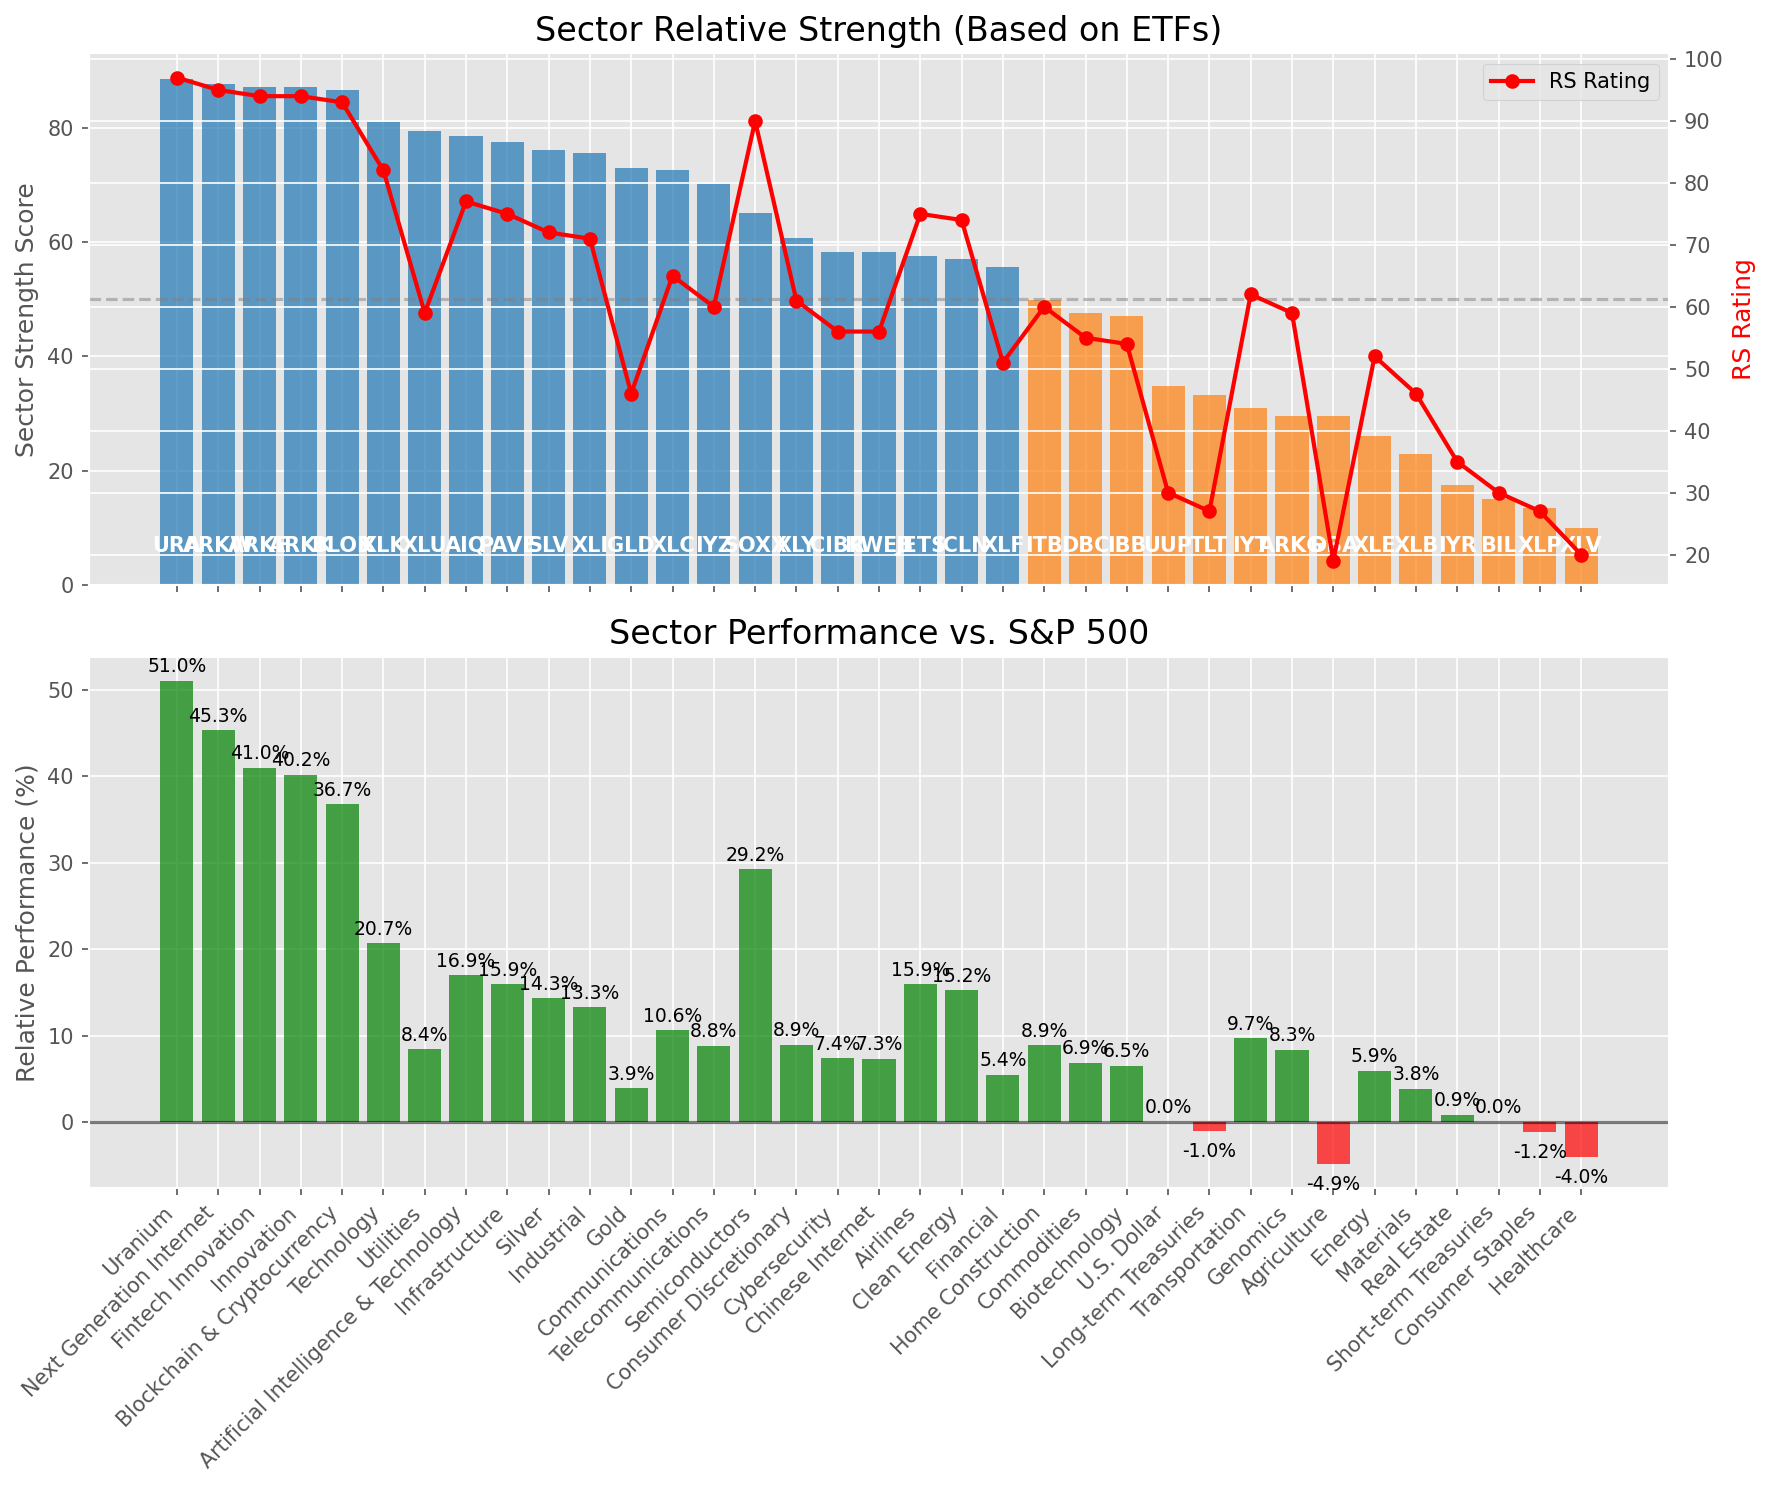
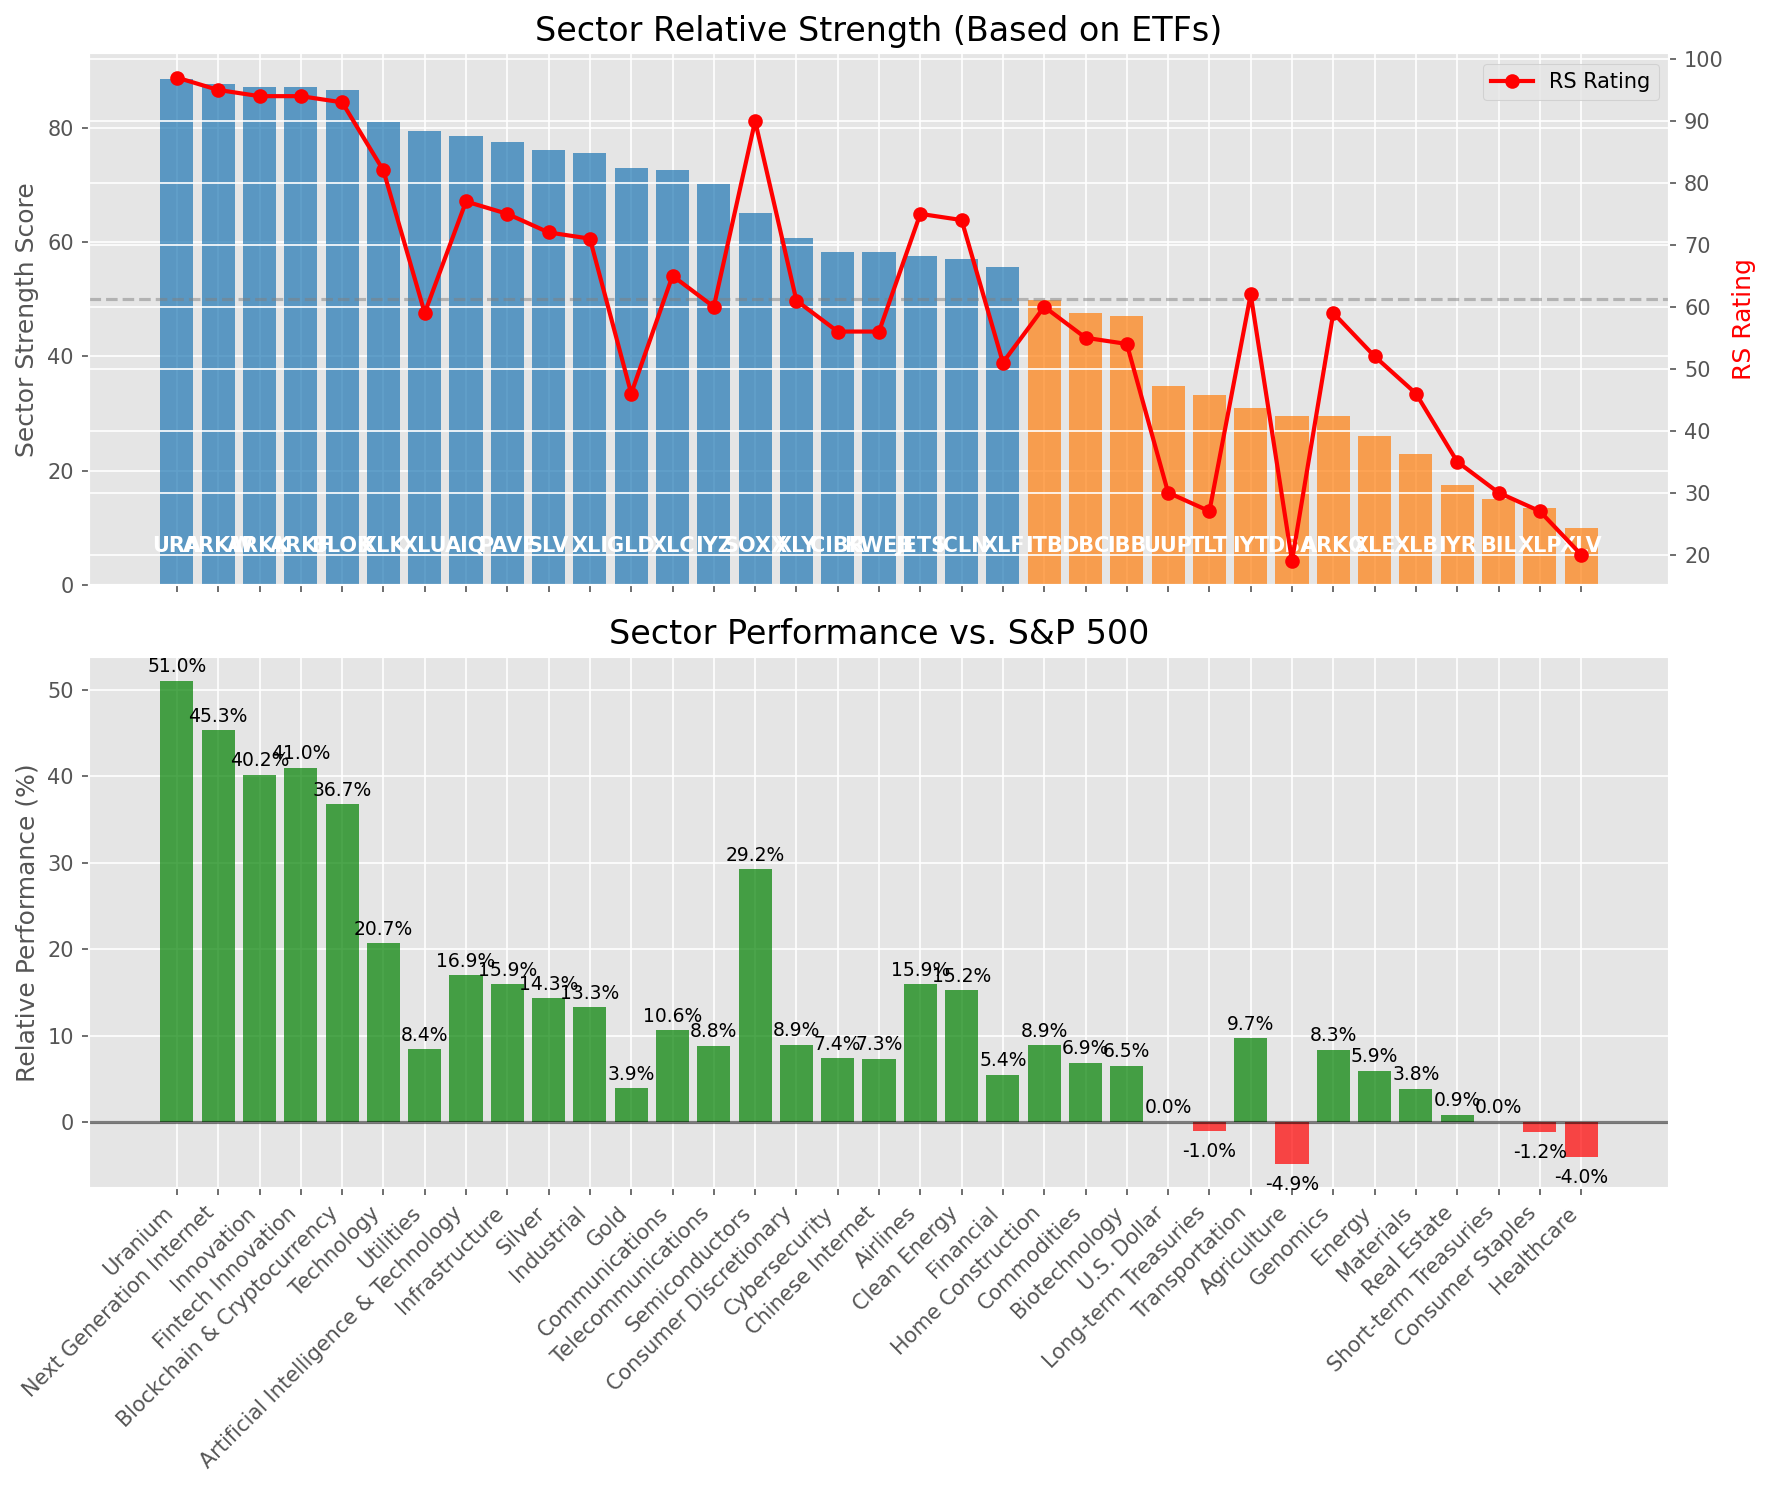
Add market report for 2025-08-02

diff --git a/oneil_relative_strength_report_2025-08-02.md b/oneil_relative_strength_report_2025-08-02.md
@@ -51,8 +51,8 @@ Based on William O'Neil's Relative Strength Methodology
 |-----|----------|-----------|-------------|--------------|-------|--------|
 | [URA](https://www.tradingview.com/chart/?symbol=URA) | 88.6 | 97.0 | 51.01% | 10d ✗, 50d ✓, 200d ✓ | ↗ | Uranium |
 | [ARKW](https://www.tradingview.com/chart/?symbol=ARKW) | 87.6 | 95.0 | 45.27% | 10d ✗, 50d ✓, 200d ✓ | ↗ | Next Generation Internet |
-| [ARKF](https://www.tradingview.com/chart/?symbol=ARKF) | 87.1 | 94.0 | 40.97% | 10d ✗, 50d ✓, 200d ✓ | ↗ | Fintech Innovation |
 | [ARKK](https://www.tradingview.com/chart/?symbol=ARKK) | 87.1 | 94.0 | 40.16% | 10d ✗, 50d ✓, 200d ✓ | ↗ | Innovation |
+| [ARKF](https://www.tradingview.com/chart/?symbol=ARKF) | 87.1 | 94.0 | 40.97% | 10d ✗, 50d ✓, 200d ✓ | ↗ | Fintech Innovation |
 | [BLOK](https://www.tradingview.com/chart/?symbol=BLOK) | 86.6 | 93.0 | 36.74% | 10d ✗, 50d ✓, 200d ✓ | ↗ | Blockchain & Cryptocurrency |
 | [XLK](https://www.tradingview.com/chart/?symbol=XLK) | 81.1 | 82.0 | 20.66% | 10d ✗, 50d ✓, 200d ✓ | ↗ | Technology |
 | [XLU](https://www.tradingview.com/chart/?symbol=XLU) | 79.5 | 59.0 | 8.43% | 10d ✓, 50d ✓, 200d ✓ | ↗ | Utilities |
@@ -76,8 +76,8 @@ Based on William O'Neil's Relative Strength Methodology
 | [UUP](https://www.tradingview.com/chart/?symbol=UUP) | 34.8 | 30.0 | 0.00% | 10d ✓, 50d ✓, 200d ✗ | ↘ | U.S. Dollar |
 | [TLT](https://www.tradingview.com/chart/?symbol=TLT) | 33.3 | 27.0 | -0.98% | 10d ✓, 50d ✓, 200d ✗ | ↘ | Long-term Treasuries |
 | [IYT](https://www.tradingview.com/chart/?symbol=IYT) | 31.0 | 62.0 | 9.68% | 10d ✗, 50d ✗, 200d ✗ | ↘ | Transportation |
-| [ARKG](https://www.tradingview.com/chart/?symbol=ARKG) | 29.5 | 59.0 | 8.32% | 10d ✗, 50d ✗, 200d ✗ | ↘ | Genomics |
 | [DBA](https://www.tradingview.com/chart/?symbol=DBA) | 29.5 | 19.0 | -4.86% | 10d ✗, 50d ✗, 200d ✗ | ↗ | Agriculture |
+| [ARKG](https://www.tradingview.com/chart/?symbol=ARKG) | 29.5 | 59.0 | 8.32% | 10d ✗, 50d ✗, 200d ✗ | ↘ | Genomics |
 | [XLE](https://www.tradingview.com/chart/?symbol=XLE) | 26.0 | 52.0 | 5.93% | 10d ✗, 50d ✗, 200d ✗ | ↘ | Energy |
 | [XLB](https://www.tradingview.com/chart/?symbol=XLB) | 23.0 | 46.0 | 3.83% | 10d ✗, 50d ✗, 200d ✗ | ↘ | Materials |
 | [IYR](https://www.tradingview.com/chart/?symbol=IYR) | 17.5 | 35.0 | 0.85% | 10d ✗, 50d ✗, 200d ✗ | ↘ | Real Estate |
@@ -98,7 +98,7 @@ This table shows the relative strength metrics for different market sectors base
 
 ### **Current Sector Leadership**
 
-The current market leadership is coming from the following sectors: **Uranium, Next Generation Internet, Fintech Innovation**.
+The current market leadership is coming from the following sectors: **Uranium, Next Generation Internet, Innovation**.
 
 The **Uranium** sector (represented by **URA**) is showing particularly strong relative strength with an RS rating of 97.0 and performance of 51.01% vs. the S&P 500. This sector is trading above its 50-day, 200-day moving average(s). Investors should consider focusing on high RS stocks within these leading sectors for potential outperformance.
 
@@ -111,27 +111,27 @@ The following 40 stocks show exceptional relative strength:
 | RS Rating | Buy Score | Current Price | Chart | Name | Ticker |
 |-----------|-----------|---------------|-------|------|--------|
 | 100 | 100 | $144.00 | [Chart](https://www.tradingview.com/chart/?symbol=SEZL) | Sezzle Inc. Common Stock | SEZL |
+| 100 | 100 | $232.73 | [Chart](https://www.tradingview.com/chart/?symbol=DAVE) | Dave Inc. Class A Common Stock | DAVE |
 | 100 | 100 | $63.69 | [Chart](https://www.tradingview.com/chart/?symbol=MP) | MP Materials Corp. | MP |
 | 100 | 100 | $194.74 | [Chart](https://www.tradingview.com/chart/?symbol=CLS) | Celestica, Inc. | CLS |
-| 100 | 100 | $232.73 | [Chart](https://www.tradingview.com/chart/?symbol=DAVE) | Dave Inc. Class A Common Stock | DAVE |
+| 99 | 100 | $26.34 | [Chart](https://www.tradingview.com/chart/?symbol=CPS) | Cooper-Standard Automotive Inc. | CPS |
 | 99 | 100 | $62.55 | [Chart](https://www.tradingview.com/chart/?symbol=HIMS) | Hims & Hers Health, Inc. | HIMS |
 | 99 | 100 | $656.50 | [Chart](https://www.tradingview.com/chart/?symbol=GEV) | GE Vernova Inc. | GEV |
 | 99 | 100 | $125.03 | [Chart](https://www.tradingview.com/chart/?symbol=RBLX) | Roblox Corporation | RBLX |
-| 99 | 100 | $26.34 | [Chart](https://www.tradingview.com/chart/?symbol=CPS) | Cooper-Standard Automotive Inc. | CPS |
 | 98 | 100 | $378.01 | [Chart](https://www.tradingview.com/chart/?symbol=TLN) | Talen Energy Corporation Common Stock | TLN |
 | 98 | 100 | $200.11 | [Chart](https://www.tradingview.com/chart/?symbol=NET) | Cloudflare, Inc. Class A common stock, par value $0.001 per share | NET |
 | 97 | 100 | $164.97 | [Chart](https://www.tradingview.com/chart/?symbol=IRTC) | iRhythm Technologies, Inc | IRTC |
 | 96 | 100 | $167.63 | [Chart](https://www.tradingview.com/chart/?symbol=NRG) | NRG Energy, Inc. | NRG |
 | 95 | 100 | $105.18 | [Chart](https://www.tradingview.com/chart/?symbol=VRNA) | Verona Pharma plc | VRNA |
-| 95 | 100 | $48.37 | [Chart](https://www.tradingview.com/chart/?symbol=REVG) | REV Group, Inc. | REVG |
 | 95 | 100 | $174.26 | [Chart](https://www.tradingview.com/chart/?symbol=COOP) | Mr. Cooper Group Inc. Common Stock | COOP |
+| 95 | 100 | $48.37 | [Chart](https://www.tradingview.com/chart/?symbol=REVG) | REV Group, Inc. | REVG |
 | 95 | 100 | $367.78 | [Chart](https://www.tradingview.com/chart/?symbol=CVNA) | Carvana Co. | CVNA |
 | 94 | 100 | $110.96 | [Chart](https://www.tradingview.com/chart/?symbol=SANM) | Sanmina  Corp | SANM |
 | 94 | 100 | $493.58 | [Chart](https://www.tradingview.com/chart/?symbol=CW) | Curtiss-Wright Corp. | CW |
-| 93 | 100 | $88.30 | [Chart](https://www.tradingview.com/chart/?symbol=RYTM) | Rhythm Pharmaceuticals, Inc. Common Stock | RYTM |
-| 93 | 100 | $91.74 | [Chart](https://www.tradingview.com/chart/?symbol=EBAY) | eBay Inc | EBAY |
 | 93 | 100 | $259.29 | [Chart](https://www.tradingview.com/chart/?symbol=WWD) | Woodward, Inc. | WWD |
 | 93 | 100 | $379.17 | [Chart](https://www.tradingview.com/chart/?symbol=APP) | Applovin Corporation Class A Common Stock | APP |
+| 93 | 100 | $88.30 | [Chart](https://www.tradingview.com/chart/?symbol=RYTM) | Rhythm Pharmaceuticals, Inc. Common Stock | RYTM |
+| 93 | 100 | $91.74 | [Chart](https://www.tradingview.com/chart/?symbol=EBAY) | eBay Inc | EBAY |
 | 93 | 100 | $42.76 | [Chart](https://www.tradingview.com/chart/?symbol=LTM) | LATAM Airlines Group S.A. American Depositary Shares (each representing two thousand (2,000) shares of Common Stock) | LTM |
 | 91 | 100 | $269.38 | [Chart](https://www.tradingview.com/chart/?symbol=GE) | GE Aerospace | GE |
 | 90 | 100 | $35.07 | [Chart](https://www.tradingview.com/chart/?symbol=APG) | APi Group Corporation | APG |
@@ -165,8 +165,8 @@ The following 62 stocks show deteriorating relative strength:
 | 2 | 100 | $13.70 | [Chart](https://www.tradingview.com/chart/?symbol=CLBT) | Cellebrite DI Ltd. Class A Ordinary Shares | CLBT |
 | 3 | 100 | $14.65 | [Chart](https://www.tradingview.com/chart/?symbol=CSTL) | Castle Biosciences, Inc. Common Stock | CSTL |
 | 3 | 100 | $24.50 | [Chart](https://www.tradingview.com/chart/?symbol=ZSL) | ProShares UltraShort Silver | ZSL |
-| 5 | 100 | $43.26 | [Chart](https://www.tradingview.com/chart/?symbol=SDOW) | ProShares UltraPro Short Dow 30 | SDOW |
 | 5 | 100 | $12.22 | [Chart](https://www.tradingview.com/chart/?symbol=CDNA) | CareDx, Inc. | CDNA |
+| 5 | 100 | $43.26 | [Chart](https://www.tradingview.com/chart/?symbol=SDOW) | ProShares UltraPro Short Dow 30 | SDOW |
 | 5 | 100 | $10.22 | [Chart](https://www.tradingview.com/chart/?symbol=ARDT) | Ardent Health, Inc. | ARDT |
 | 6 | 100 | $10.37 | [Chart](https://www.tradingview.com/chart/?symbol=OEC) | Orion S.A. | OEC |
 | 6 | 100 | $20.39 | [Chart](https://www.tradingview.com/chart/?symbol=KIDS) | OrthoPediatrics Corp. Common Stock | KIDS |
@@ -180,8 +180,8 @@ The following 62 stocks show deteriorating relative strength:
 | 9 | 98 | $10.18 | [Chart](https://www.tradingview.com/chart/?symbol=IMXI) | International Money Express, Inc. | IMXI |
 | 13 | 98 | $16.23 | [Chart](https://www.tradingview.com/chart/?symbol=UMH) | UMH Properties, Inc. | UMH |
 | 7 | 97 | $18.84 | [Chart](https://www.tradingview.com/chart/?symbol=GAP) | The Gap, Inc. | GAP |
-| 9 | 97 | $12.56 | [Chart](https://www.tradingview.com/chart/?symbol=BSM) | Black Stone Minerals, L.P. | BSM |
 | 9 | 97 | $18.66 | [Chart](https://www.tradingview.com/chart/?symbol=AVBP) | ArriVent BioPharma, Inc. Common Stock | AVBP |
+| 9 | 97 | $12.56 | [Chart](https://www.tradingview.com/chart/?symbol=BSM) | Black Stone Minerals, L.P. | BSM |
 | 15 | 97 | $127.40 | [Chart](https://www.tradingview.com/chart/?symbol=ICUI) | ICU Medical Inc | ICUI |
 | 8 | 96 | $10.00 | [Chart](https://www.tradingview.com/chart/?symbol=SD) | SandRidge Energy, Inc. | SD |
 | 7 | 95 | $20.80 | [Chart](https://www.tradingview.com/chart/?symbol=BLFS) | BioLife Solutions Inc. | BLFS |
@@ -202,11 +202,11 @@ The following 62 stocks show deteriorating relative strength:
 | 24 | 83 | $10.07 | [Chart](https://www.tradingview.com/chart/?symbol=NMZ) | Nuveen Municipal High Income Opportunity Fund | NMZ |
 | 26 | 83 | $10.45 | [Chart](https://www.tradingview.com/chart/?symbol=LOCO) | El Pollo Loco Holdings, Inc. | LOCO |
 | 26 | 81 | $138.48 | [Chart](https://www.tradingview.com/chart/?symbol=DVA) | DaVita Inc. | DVA |
-| 24 | 78 | $152.61 | [Chart](https://www.tradingview.com/chart/?symbol=NICE) | NICE Ltd | NICE |
 | 24 | 78 | $12.05 | [Chart](https://www.tradingview.com/chart/?symbol=NU) | Nu Holdings Ltd. | NU |
+| 24 | 78 | $152.61 | [Chart](https://www.tradingview.com/chart/?symbol=NICE) | NICE Ltd | NICE |
 | 27 | 78 | $18.65 | [Chart](https://www.tradingview.com/chart/?symbol=KRNT) | Kornit Digital Ltd. | KRNT |
-| 23 | 77 | $186.48 | [Chart](https://www.tradingview.com/chart/?symbol=AIZ) | Assurant, Inc. | AIZ |
 | 23 | 77 | $10.19 | [Chart](https://www.tradingview.com/chart/?symbol=BRKL) | Brookline Bancorp Inc | BRKL |
+| 23 | 77 | $186.48 | [Chart](https://www.tradingview.com/chart/?symbol=AIZ) | Assurant, Inc. | AIZ |
 | 28 | 77 | $12.22 | [Chart](https://www.tradingview.com/chart/?symbol=RQI) | COHEN & STEERS QUALITY INCOME REALTY FUND, INC. COMMON SHARES | RQI |
 | 30 | 76 | $23.29 | [Chart](https://www.tradingview.com/chart/?symbol=IBTF) | iShares iBonds Dec 2025 Term Treasury ETF | IBTF |
 | 31 | 76 | $100.28 | [Chart](https://www.tradingview.com/chart/?symbol=MINT) | PIMCO Enhanced Short Maturity Active Exchange-Traded Fund | MINT |
@@ -218,8 +218,8 @@ The following 62 stocks show deteriorating relative strength:
 | 29 | 71 | $22.86 | [Chart](https://www.tradingview.com/chart/?symbol=IBTG) | iShares iBonds Dec 2026 Term Treasury ETF | IBTG |
 | 33 | 69 | $54.05 | [Chart](https://www.tradingview.com/chart/?symbol=ALRM) | Alarm.com Holdings, Inc. | ALRM |
 | 34 | 68 | $47.56 | [Chart](https://www.tradingview.com/chart/?symbol=SPHD) | Invesco S&P 500 High Dividend Low Volatility ETF | SPHD |
-| 35 | 67 | $78.36 | [Chart](https://www.tradingview.com/chart/?symbol=FIS) | Fidelity National Information Services, Inc. | FIS |
 | 35 | 67 | $45.92 | [Chart](https://www.tradingview.com/chart/?symbol=FTSL) | First Trust Senior Loan Fund ETF | FTSL |
+| 35 | 67 | $78.36 | [Chart](https://www.tradingview.com/chart/?symbol=FIS) | Fidelity National Information Services, Inc. | FIS |
 | 39 | 67 | $78.04 | [Chart](https://www.tradingview.com/chart/?symbol=GPN) | Global Payments, Inc. | GPN |
 | 39 | 64 | $36.57 | [Chart](https://www.tradingview.com/chart/?symbol=HYLB) | Xtrackers USD High Yield Corporate Bond ETF | HYLB |
 
